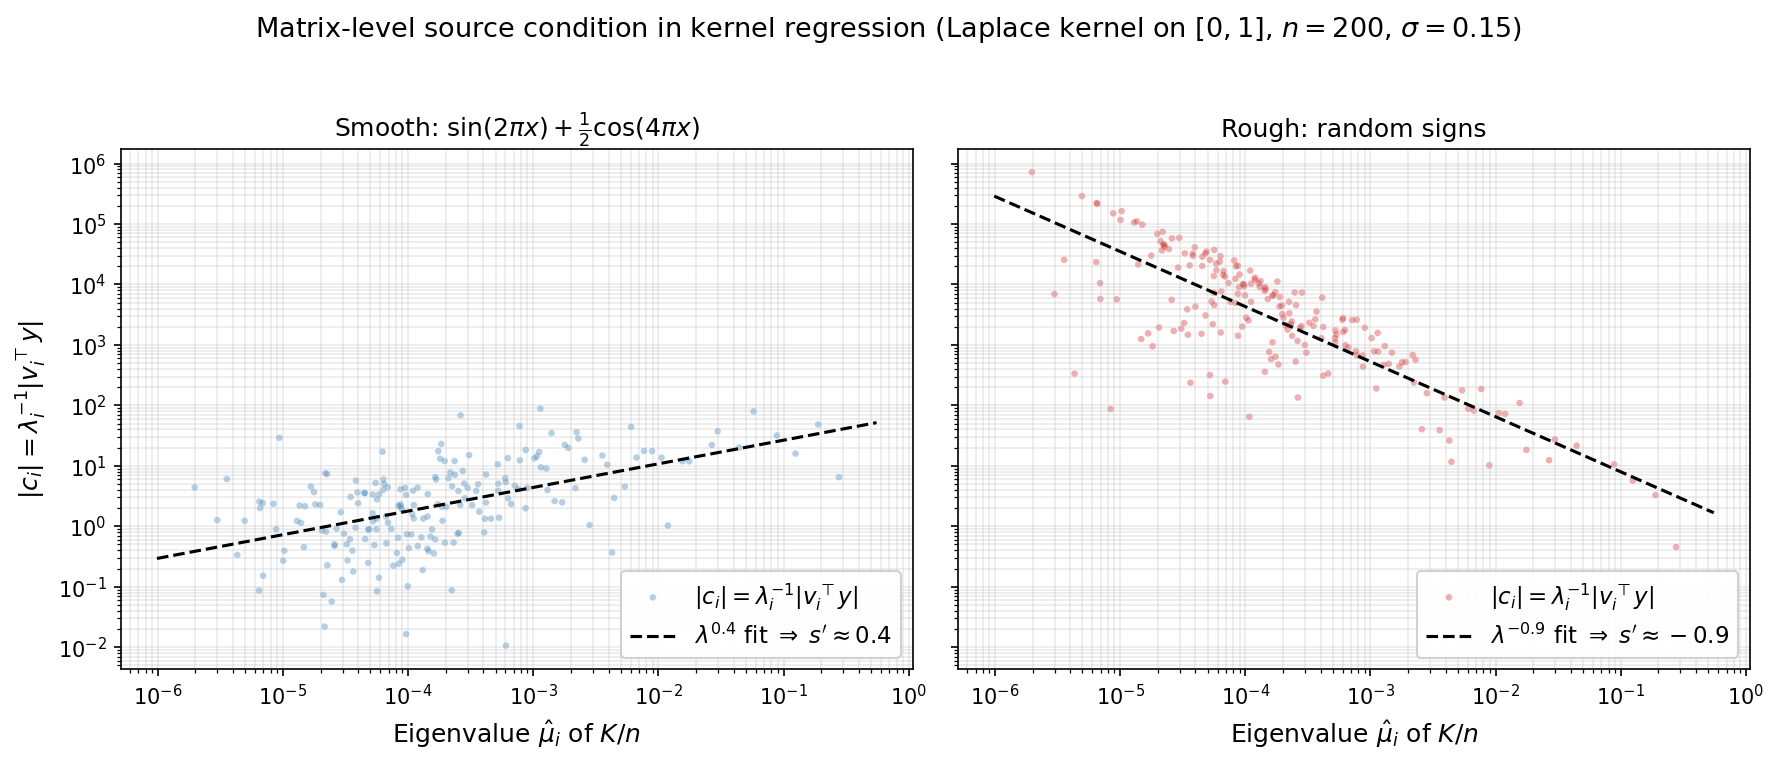
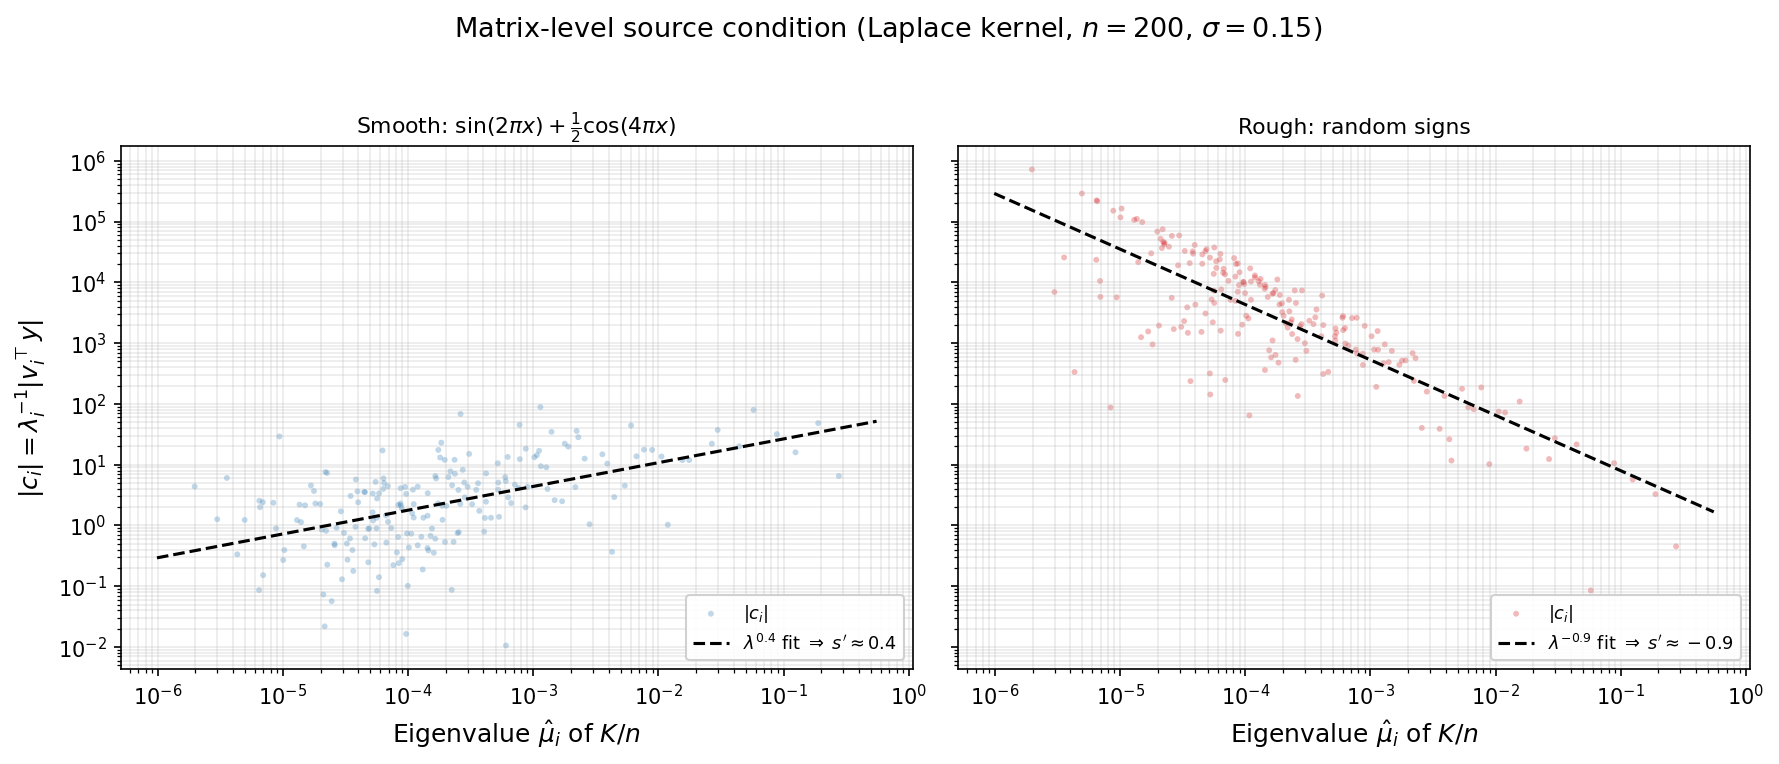
Extend source condition to s > -1/2 and add multi-kernel eigenbasis figure
- Generalize Theorem 7.1, Theorem 7.2, and Corollary 7.1 from s >= 0 to s > -1/2
- Add two-regime explanation: s > 0 gives faster rate, -1/2 < s < 0 gives
  dimension-free bound (O(||w||^2 k^{-(1+2s)}) vs diverging O(||e_0||^2/k))
- Stipulate ||w||^2 <= M in source condition definition
- Fill in scaling ||e_0||^2 ~ n^{2|s|alpha} ||w||^2 for polynomial decay
- Add two-panel multi-kernel figure showing shared eigenfunctions (left) vs
  different source exponents from eigenvalue decay (right), with fitted slopes
- Refactor plot_source_condition.py with kernel definitions and helper functions

Made-with: Cursor

diff --git a/scripts/plot_source_condition.py b/scripts/plot_source_condition.py
@@ -16,9 +16,27 @@ from pathlib import Path
 FIGURES_DIR = Path(__file__).parent.parent / "figures"
 FIGURES_DIR.mkdir(exist_ok=True)
 
+
 def laplace_kernel(X, sigma):
     D = np.abs(X[:, None] - X[None, :])
     return np.exp(-D / sigma)
+
+
+def matern32_kernel(X, sigma):
+    D = np.abs(X[:, None] - X[None, :])
+    r = np.sqrt(3) * D / sigma
+    return (1 + r) * np.exp(-r)
+
+
+def matern52_kernel(X, sigma):
+    D = np.abs(X[:, None] - X[None, :])
+    r = np.sqrt(5) * D / sigma
+    return (1 + r + r ** 2 / 3) * np.exp(-r)
+
+
+def gaussian_kernel(X, sigma):
+    D = np.abs(X[:, None] - X[None, :])
+    return np.exp(-D ** 2 / (2 * sigma ** 2))
 
 
 def fit_power_law(eigvals, coeffs):
@@ -30,7 +48,33 @@ def fit_power_law(eigvals, coeffs):
     return fit[0], fit[1]
 
 
-def main():
+def _plot_source_condition(ax, eigvals, eigvecs, y, color, title):
+    proj = np.abs(eigvecs.T @ y)
+    c = proj / eigvals
+
+    keep = eigvals > 1e-6 * eigvals[0]
+    ev = eigvals[keep]
+    cc = c[keep]
+
+    slope, intercept = fit_power_law(ev, cc)
+
+    ax.scatter(ev, cc, s=8, alpha=0.3, color=color, edgecolors="none",
+               label=r"$|c_i|$")
+
+    lam_range = np.array([ev[-1] * 0.5, ev[0] * 2])
+    ax.loglog(lam_range, np.exp(intercept) * lam_range ** slope,
+              "k--", linewidth=1.5,
+              label=(rf"$\lambda^{{{slope:.1f}}}$ fit "
+                     rf"$\Rightarrow\; s' \approx {slope:.1f}$"))
+
+    ax.set_title(title, fontsize=10.5)
+    ax.legend(fontsize=8.5, framealpha=0.9, loc="lower right")
+    ax.grid(True, alpha=0.25, which="both")
+    return slope
+
+
+def make_single_kernel_plot():
+    """Original single-row Laplace-only figure."""
     np.random.seed(0)
     n = 200
     x = np.sort(np.random.rand(n))
@@ -48,54 +92,114 @@ def main():
     y_rough = np.sign(np.random.randn(n)).astype(float)
     y_rough -= y_rough.mean()
 
-    proj_s = np.abs(eigvecs.T @ y_smooth)
-    proj_r = np.abs(eigvecs.T @ y_rough)
-
-    c_s = proj_s / eigvals
-    c_r = proj_r / eigvals
-
-    keep = eigvals > 1e-6 * eigvals[0]
-    ev = eigvals[keep]
-    cs = c_s[keep]
-    cr = c_r[keep]
-
-    s_smooth, b_s = fit_power_law(ev, cs)
-    s_rough, b_r = fit_power_law(ev, cr)
-    print(f"  smooth target: matrix-level slope s' ≈ {s_smooth:.2f}")
-    print(f"  rough target:  matrix-level slope s' ≈ {s_rough:.2f}")
-
     fig, axes = plt.subplots(1, 2, figsize=(12, 5), sharey=True)
 
-    for ax, coeffs, slope, intercept, s_val, label, color in [
-        (axes[0], cs, s_smooth, b_s, s_smooth,
-         r"Smooth: $\sin(2\pi x)+\frac{1}{2}\cos(4\pi x)$", "#2c7bb6"),
-        (axes[1], cr, s_rough, b_r, s_rough, "Rough: random signs", "#d7191c"),
-    ]:
-        ax.scatter(ev, coeffs, s=10, alpha=0.35, color=color, edgecolors="none",
-                   label=r"$|c_i| = \lambda_i^{-1}|v_i^\top y|$")
-
-        lam_range = np.array([ev[-1] * 0.5, ev[0] * 2])
-        ax.loglog(lam_range, np.exp(intercept) * lam_range ** slope,
-                  "k--", linewidth=1.5,
-                  label=(rf"$\lambda^{{{slope:.1f}}}$ fit "
-                         rf"$\Rightarrow\; s' \approx {s_val:.1f}$"))
-
-        ax.set_xlabel(r"Eigenvalue $\hat\mu_i$ of $K/n$", fontsize=12)
-        ax.set_title(label, fontsize=12)
-        ax.legend(fontsize=11, framealpha=0.9, loc="lower right")
-        ax.grid(True, alpha=0.25, which="both")
+    _plot_source_condition(axes[0], eigvals, eigvecs, y_smooth, "#2c7bb6",
+                           r"Smooth: $\sin(2\pi x)+\frac{1}{2}\cos(4\pi x)$")
+    _plot_source_condition(axes[1], eigvals, eigvecs, y_rough, "#d7191c",
+                           "Rough: random signs")
 
     axes[0].set_ylabel(r"$|c_i| = \lambda_i^{-1}|v_i^\top y|$", fontsize=12)
+    for ax in axes:
+        ax.set_xlabel(r"Eigenvalue $\hat\mu_i$ of $K/n$", fontsize=12)
+
     fig.suptitle(
-        rf"Matrix-level source condition in kernel regression "
-        rf"(Laplace kernel on $[0,1]$, $n={n}$, $\sigma={sigma}$)",
+        rf"Matrix-level source condition "
+        rf"(Laplace kernel, $n={n}$, $\sigma={sigma}$)",
         fontsize=13, y=1.02,
     )
     fig.tight_layout()
     fig.savefig(FIGURES_DIR / "source_condition_kernel.png",
                 dpi=150, bbox_inches="tight")
     plt.close(fig)
-    print(f"\n  ✓ source_condition_kernel.png  (n={n}, sigma={sigma:.3f})")
+    print("  ✓ source_condition_kernel.png")
+
+
+def make_all_kernels_plot():
+    """Two-panel figure showing that eigenfunctions are shared but eigenvalue
+    decay rates differ, which is the sole driver of the source exponent."""
+    np.random.seed(0)
+    n = 200
+    x = np.sort(np.random.rand(n))
+    sigma = 0.15
+
+    y_smooth = np.sin(2 * np.pi * x) + 0.5 * np.cos(4 * np.pi * x)
+    y_smooth -= y_smooth.mean()
+
+    kernel_list = [
+        (r"Laplace ($m=\frac{1}{2}$)", laplace_kernel(x, sigma), "#d7191c"),
+        (r"Matérn 3/2 ($m=\frac{3}{2}$)", matern32_kernel(x, sigma), "#e66101"),
+        (r"Matérn 5/2 ($m=\frac{5}{2}$)", matern52_kernel(x, sigma), "#5e3c99"),
+        (r"Gaussian ($m=\infty$)", gaussian_kernel(x, sigma), "#2c7bb6"),
+    ]
+
+    fig, (ax1, ax2) = plt.subplots(1, 2, figsize=(13, 5.5))
+
+    for kname, K, color in kernel_list:
+        eigvals, eigvecs = eigh(K / n)
+        idx = np.argsort(eigvals)[::-1]
+        eigvals = eigvals[idx]
+        eigvecs = eigvecs[:, idx]
+
+        b = np.abs(eigvecs.T @ (y_smooth / n))
+        c = b / eigvals
+
+        keep = eigvals > 1e-8 * eigvals[0]
+        indices = np.arange(1, keep.sum() + 1)
+        ev = eigvals[keep]
+        bb = b[keep]
+        cc = c[keep]
+
+        ax1.scatter(indices, bb, s=8, alpha=0.4, color=color,
+                    edgecolors="none", label=kname)
+
+        slope, intercept = fit_power_law(ev, cc)
+        ax2.scatter(ev, cc, s=8, alpha=0.4, color=color,
+                    edgecolors="none", label=kname + rf" ($s'\approx{slope:.1f}$)")
+
+        lam_range = np.array([ev[-1] * 0.5, ev[0] * 2])
+        ax2.loglog(lam_range, np.exp(intercept) * lam_range ** slope,
+                   "--", color=color, linewidth=1.5, alpha=0.7)
+
+        print(f"  {kname:30s}  s'={slope:.2f}")
+
+    ax1.set_xscale("log")
+    ax1.set_yscale("log")
+    ax1.set_xlabel("Mode index $i$", fontsize=12)
+    ax1.set_ylabel(r"$|b_i| = |v_i^\top (y/n)|$", fontsize=12)
+    ax1.set_title(
+        r"Projections $b_i$ onto eigenbasis (kernel-independent)",
+        fontsize=11)
+    ax1.legend(fontsize=8.5, framealpha=0.9, loc="lower left")
+    ax1.grid(True, alpha=0.25, which="both")
+
+    ax2.set_xscale("log")
+    ax2.set_yscale("log")
+    ax2.set_xlabel(r"Eigenvalue $\hat\mu_i$ of $K/n$", fontsize=12)
+    ax2.set_ylabel(r"$|c_i| = |b_i|/\lambda_i$", fontsize=12)
+    ax2.set_title(
+        r"Initial error coefficients $c_i = b_i/\lambda_i$",
+        fontsize=11)
+    ax2.legend(fontsize=8.5, framealpha=0.9, loc="lower right")
+    ax2.grid(True, alpha=0.25, which="both")
+
+    fig.suptitle(
+        r"Same eigenfunctions, different eigenvalue decay $\Rightarrow$ "
+        r"different source exponents"
+        f"\n($n={n}$, $\\sigma={sigma}$, "
+        r"$h(x)=\sin(2\pi x)+\frac{1}{2}\cos(4\pi x)$)",
+        fontsize=12, y=1.04,
+    )
+    fig.tight_layout()
+    fig.savefig(FIGURES_DIR / "source_condition_all_kernels.png",
+                dpi=150, bbox_inches="tight")
+    plt.close(fig)
+    print("  ✓ source_condition_all_kernels.png")
+
+
+def main():
+    make_single_kernel_plot()
+    make_all_kernels_plot()
 
 
 if __name__ == "__main__":

diff --git a/week1.md b/week1.md
@@ -781,11 +781,14 @@ We develop both ideas in turn, then combine them.
 
 ### Source conditions
 
-A **source condition** of order $s \geq 0$ is the assumption
+A **source condition** of order $s \in \mathbb{R}$ is the assumption
 
-$$e_0 = A^s\,w \qquad \text{for some } w \in \mathbb{R}^d.$$
+$$e_0 = A^s\,w \qquad \text{for some } w \in \mathbb{R}^d \text{ with } \lVert w\rVert^2 \leq M.$$
 
-In the eigenbasis, this means $c_i = \lambda_i^s\,\tilde{c}_i$ where $\tilde{c}_i = v_i^\top w$. The factor $\lambda_i^s$ suppresses the components of $e_0$ along eigenvectors with small eigenvalues, so the initial error is concentrated in the large-eigenvalue directions of $A$. 
+In the eigenbasis, this means $c_i = \lambda_i^s\,\tilde{c}_i$ where $\tilde{c}_i = v_i^\top w$. In the regime $s>0$, the factor $\lambda_i^s$ suppresses the components of $e_0$ along eigenvectors with small eigenvalues, so the initial error is concentrated in the large-eigenvalue directions of $A$. The regime $s\in (-\tfrac{1}{2},0)$ is also meaningful but for a different reason. Since we have $\lVert e_0\rVert^2 = \sum_i \lambda_i^{2s} w_i^2$ and $2s < 0$, the factor $\lambda_i^{2s}$ amplifies small-eigenvalue components. For polynomial eigenvalue decay $\lambda_i \asymp i^{-\alpha}$ with isotropic $w$, the initial error $\lVert e_0\rVert^2 \asymp d^{2|s|\alpha}\lVert w\rVert^2$ grows with $d$ while $\lVert w\rVert^2$ stays of constant order. Therefore convergence guarantees that depend on $\|w\|_2$ rather than on $\|e_0\|$, which we will derive in this section, may still be meaningful. 
+
+
+
 
 <div style="background-color: #f7f7f7; border-left: 4px solid #999; padding: 1em 1.2em; margin: 1.5em 0; border-radius: 4px;" markdown="1">
 
@@ -853,20 +856,29 @@ Thus we have the matrix-level source condition $e_0 = A^{s'}w$ with exponent $s'
 
 ![Source condition in kernel regression](figures/source_condition_kernel.png)
 
+The next figure explains *why* the source exponent changes across kernels. For translation-invariant kernels on $[0,1]$, the eigenfunctions are approximately the same (Fourier modes), so the projections $b_i = v_i^\top(y/n)$ are nearly kernel-independent (left panel: all four kernels overlap). What differs is the eigenvalue decay: $\lambda_i \asymp i^{-\alpha}$ with $\alpha = 2$ (Laplace), $4$ (Matérn 3/2), $6$ (Matérn 5/2), or super-polynomial (Gaussian). Since $c_i = b_i/\lambda_i$, dividing by faster-decaying eigenvalues inflates the high-index coefficients more, producing a less favorable slope (right panel). If $b_i \propto i^{-r}$ for some target-dependent $r$, then $c_i \propto \lambda_i^{r/\alpha - 1}$, giving $s' = r/\alpha - 1$. As $\alpha$ increases, $s'$ decreases --- not because the target projects differently, but because each eigenvalue is smaller and dividing by it inflates $c_i$ more.
+
+![Source condition across kernel families](figures/source_condition_all_kernels.png)
+
 
 </div>
 
 
-We now show how the source condition improves the rate of convergence of gradient descent. The conclusion is that when the source condition holds, the GD rate automatically accelerates to $O(\tfrac{1}{k^{1+2s}})$ as $k$ tends to infinity.
+We now show how the source condition controls the rate of convergence of gradient descent. The GD rate is $O(k^{-(1+2s)})$, with two distinct payoffs depending on the sign of $s$:
+
+1. **(faster rate when $s > 0$ ).** The rate $O(\|w\|^2\cdot k^{-(1+2s)})$ is strictly faster than $O(\|e_0\|^2\cdot k^{-1})$. The source condition concentrates the initial error on large-eigenvalue directions, which GD resolves quickly.
+
+2. **(dimension-free rate when $-\tfrac{1}{2} < s < 0$).** The rate $O(\lVert w\rVert^2/ k^{1+2s})$ is slower than $O(\lVert e_0\rVert^2/k)$ in terms of $k$, but the bound depends on $\lVert w\rVert^2$ rather than $\lVert e_0\rVert^2$. For polynomial eigenvalue decay $\lambda_i \asymp i^{-\alpha}$ with isotropic $w$, the initial error scales as $\lVert e_0\rVert^2 \asymp n^{2|s|\alpha}\lVert w\rVert^2$, so the vanilla bound diverges up as $n \to \infty$, whereas the source-condition bound $O(\lVert w\rVert^2\cdot k^{-(1+2s)})$ is independent of $n$.
+
 
 <div style="background-color: #eef6fc; border-left: 4px solid #2980b9; padding: 1em 1.2em; margin: 1.5em 0; border-radius: 4px;" markdown="1">
 
 
-**Theorem 7.1 (GD with source condition).** *If the initial error satisfies $e_0 = A^s w$ for some $s \geq 0$, then GD with $\eta = 1/\beta$ satisfies*
+**Theorem 7.1 (GD with source condition).** *If the initial error satisfies $e_0 = A^s w$ for some $s > -\tfrac{1}{2}$, then GD with $\eta = 1/\beta$ satisfies*
 
 $$f(x_k) - f^\ast \leq \frac{\beta^{1+2s}}{2}\left(\frac{1+2s}{2k+1+2s}\right)^{1+2s}\|w\|^2. \tag{13}$$
 
-*In particular, $f(x_k) - f^\ast = O\!\left(\beta^{1+2s}\,k^{-(1+2s)}\,\|w\|^2\right)$ as $k \to \infty$.*
+*In particular, $f(x_k) - f^\ast = O\left(\beta^{1+2s}\,k^{-(1+2s)}\,\|w\|^2\right)$ as $k \to \infty$.*
 
 </div>
 
@@ -891,14 +903,16 @@ $$
 Multiplying by $\beta^{1+2s}/2$ and $\|w\|^2$ gives the bound $(13)$. <span style="float: right;">$\square$</span>
 
 The source condition can also be exploited by time-varying stepsizes. The relevant polynomial problem is now
+
 $$
 \min_{\substack{p \in \mathcal P_k^r\\ p(0)=1}} \max_{\lambda \in [0,\beta]} \lambda^{1+2s}p(\lambda)^2.
 $$
+
 After the affine change of variables $\lambda = \frac{\beta}{2}(1-t)$, this becomes a minimax problem on $[-1,1]$ with weight $(1-t)^{1+2s}$. The solutions of this extremal problem are the **Jacobi polynomials**. You will derive this minimax construction in the next homework and will prove the following theorem.
 
 <div style="background-color: #eef6fc; border-left: 4px solid #2980b9; padding: 1em 1.2em; margin: 1.5em 0; border-radius: 4px;" markdown="1">
 
-**Theorem 7.2 (Time-varying stepsizes with source condition).** *For every $s \geq 0$ and every horizon $k \geq 1$, there exists a sequence of stepsizes $\eta_1,\dots,\eta_k$ such that the corresponding GD iterate satisfies*
+**Theorem 7.2 (Time-varying stepsizes with source condition).** *For every $s > -\tfrac{1}{2}$ and every horizon $k \geq 1$, there exists a sequence of stepsizes $\eta_1,\dots,\eta_k$ such that the corresponding GD iterate satisfies*
 
 $$
 f(x_k)-f^\ast
@@ -909,11 +923,11 @@ where $C_s>0$ depends only on $s$.
 
 </div>
 
-In particular, the rate improves from $O(k^{-2})$ for Chebyshev accelerated GD without the source condition to $O(k^{-2(1+2s)})$ when the source condition holds. In principle, the stepsizes in the theorem are given by the reciprocals of the roots of the relevant Jacobi polynomial. Unlike the Chebyshev roots, these roots do not have a simple closed form. This is not a serious drawback, however, because the same convergence rate is inherited by the conjugate gradient method, which achieves it adaptively without needing the stepsizes explicitly.
+In particular, the rate goes from $O(k^{-2})$ for Chebyshev accelerated GD without the source condition to $O(k^{-2(1+2s)})$ when the source condition holds. In principle, the stepsizes in the theorem are given by the reciprocals of the roots of the relevant Jacobi polynomial, and depend explicitely on $s$. This is not a serious drawback, however, because the same convergence rate is inherited by the conjugate gradient method, which achieves it adaptively without needing the stepsizes explicitly.
 
 <div style="background-color: #eef6fc; border-left: 4px solid #2980b9; padding: 1em 1.2em; margin: 1.5em 0; border-radius: 4px;" markdown="1">
 
-**Corollary 7.1 (CG with source condition).** *If the initial error satisfies $e_0 = A^s w$ for some $s \geq 0$, then the CG iterates satisfy*
+**Corollary 7.1 (CG with source condition).** *If the initial error satisfies $e_0 = A^s w$ for some $s > -\tfrac{1}{2}$, then the CG iterates satisfy*
 
 $$
 f(x_k^{\mathrm{CG}})-f^\ast
@@ -973,7 +987,7 @@ Note that $\phi$ itself need not be integrable; the error integral $\mathcal{E}_
 
 <div style="background-color: #f7f7f7; border-left: 4px solid #999; padding: 1em 1.2em; margin: 1.5em 0; border-radius: 4px;" markdown="1">
 
-**Example (polynomial eigenvalue decay).** Kernels such as Laplace and Matérn have eigenvalues that decay polynomially: $\lambda_i \asymp i^{-\alpha}$ for some $\alpha > 0$. To find the corresponding spectral exponent $a$,  we can compute the eigenvalue density $\rho_A$. The empirical CDF of the eigenvalues is $F(\lambda) = \tfrac{1}{d}\#\{i:\lambda_i \leq \lambda\}$. Since $\lambda_i = Ci^{-\alpha}$ is decreasing, $\lambda_i \leq \lambda$ iff $i \geq (C/\lambda)^{1/\alpha}$, so
+**Example (polynomial eigenvalue decay).** Kernels such as Laplace and Matérn have eigenvalues that decay polynomially: $\lambda_i \asymp i^{-\alpha}$ for some $\alpha > 0$. To find the corresponding spectral exponent $a$,  we can compute the eigenvalue density $\rho_A$. The empirical CDF of the eigenvalues is $F(\lambda) = \tfrac{1}{d}\cdot |\{i:\lambda_i \leq \lambda\}|$. Since $\lambda_i = Ci^{-\alpha}$ is decreasing, $\lambda_i \leq \lambda$ iff $i \geq (C/\lambda)^{1/\alpha}$, so
 
 $$F(\lambda) \approx 1 - \frac{(C/\lambda)^{1/\alpha}}{d} = 1 - \frac{C^{1/\alpha}}{d}\,\lambda^{-1/\alpha}.$$
 
